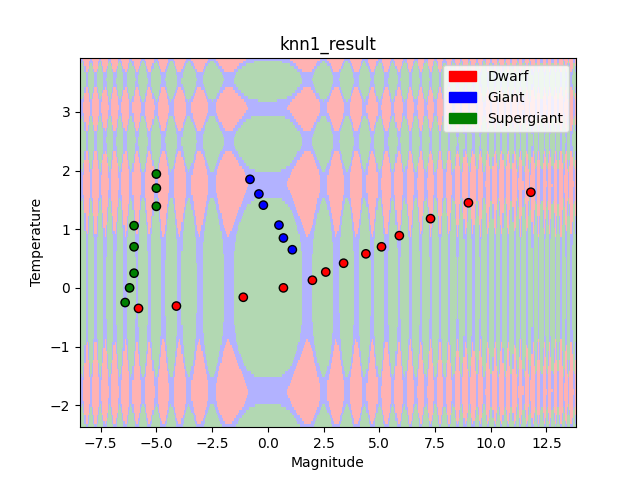
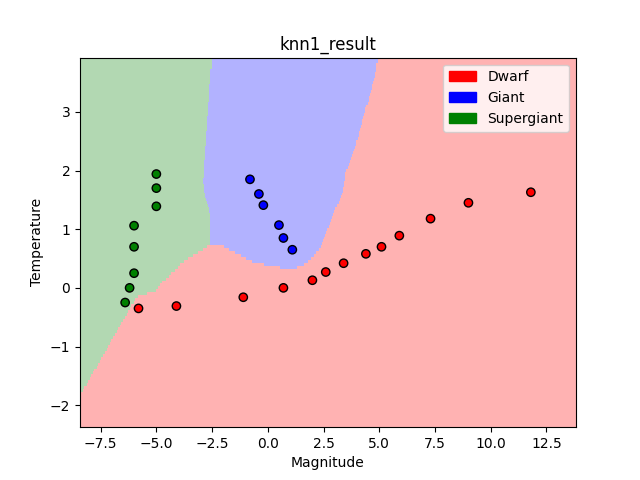
implement knn classifier

diff --git a/HW2/T2_P3_KNNModel.py b/HW2/T2_P3_KNNModel.py
@@ -16,25 +16,24 @@ class KNNModel:
     def __distance(self, x_i, x_j):
         return ((x_i[0] - x_j[0]) / 3) ** 2 + (x_i[1] - x_j[1]) ** 2
 
-    def __k_nearest(self, X, x_i):
-        N = len(X)
-        distances = [(j, self.__distance(x_i, X[j])) for j in range(N)]
+    # returns indexes of nearest k data points
+    def __k_nearest(self, x_i):
+        N = len(self.X)
+        distances = [(j, self.__distance(x_i, self.X[j])) for j in range(N)]
         sorted_distances = sorted(distances, key=lambda tup: tup[1])
-        nearest_k = [X[tup[0]] for tup in sorted_distances[:self.K]]
-        return nearest_k
+        nearest_k_indexes = [tup[0] for tup in sorted_distances[:self.K]]
+        return nearest_k_indexes
 
-    # TODO: Implement this method!
     def predict(self, X_pred):
-        # The code in this method should be removed and replaced! We included it
-        # just so that the distribution code is runnable and produces a
-        # (currently meaningless) visualization.
         preds = []
-        for x in X_pred:
-
-
-
-            z = np.cos(x ** 2).sum()
-            preds.append(1 + np.sign(z) * (np.abs(z) > 0.3))
+        for x_i in X_pred:
+            votes = {}
+            for i in self.__k_nearest(x_i):
+                if self.y[i] in votes:
+                    votes[self.y[i]] += 1
+                else:
+                    votes[self.y[i]] = 1
+            preds.append(max(votes, key=votes.get))
         return np.array(preds)
 
     # In KNN, "fitting" can be as simple as storing the data, so this has been written for you
@@ -58,10 +57,10 @@ class KNNModel:
         y = np.array([star_labels[x] for x in df['Type']])
 
         self.fit(X, y)
-        self.__k_nearest(X, X[0])
-
-
-
+        self.__k_nearest(X[0])
+        y_hat = self.predict(X)
+        print(y)
+        print(y_hat)
 
 if __name__ == '__main__':
     model = KNNModel(3)
